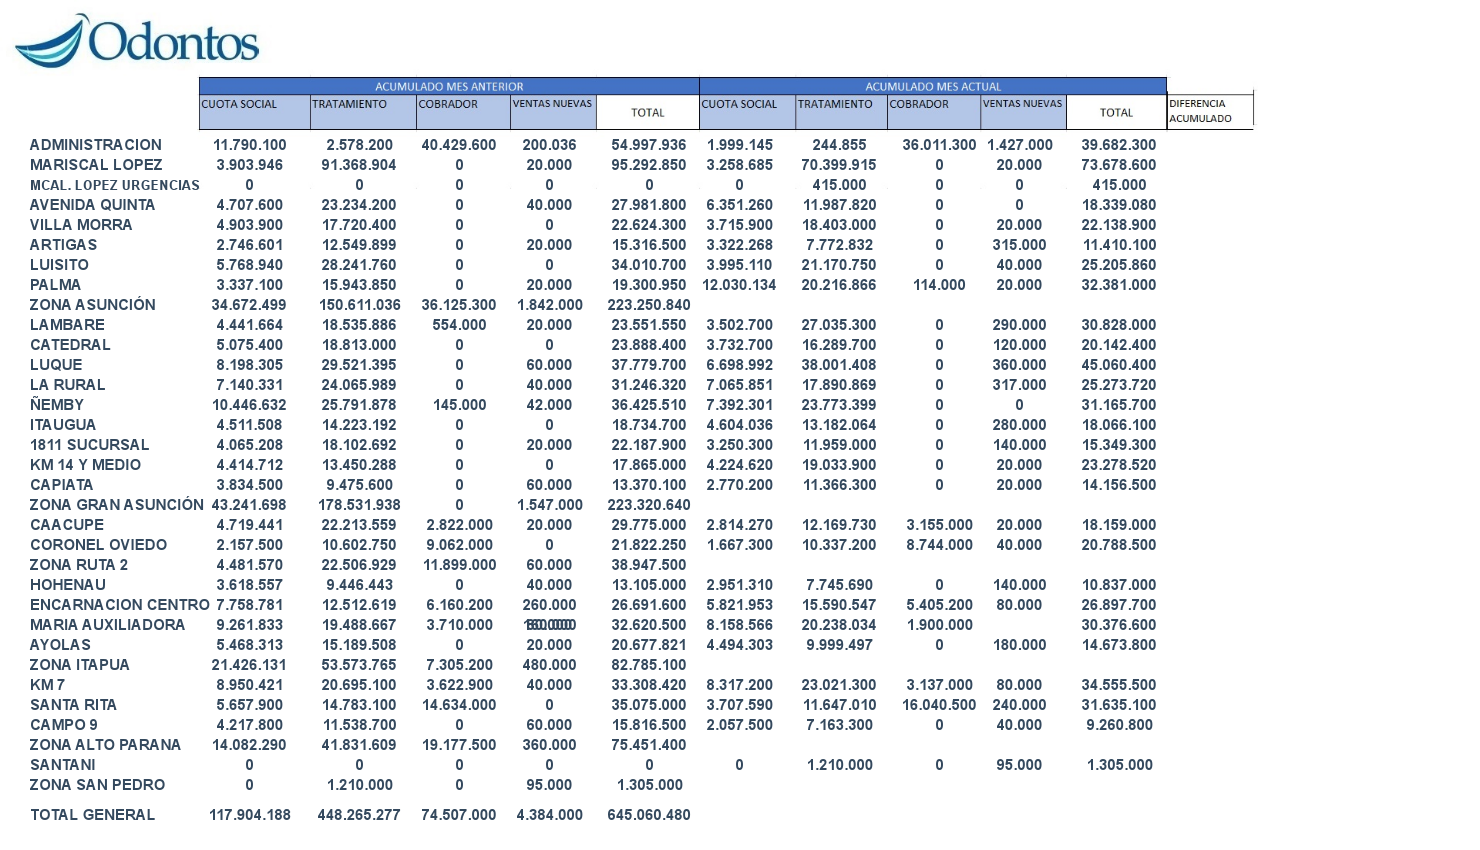
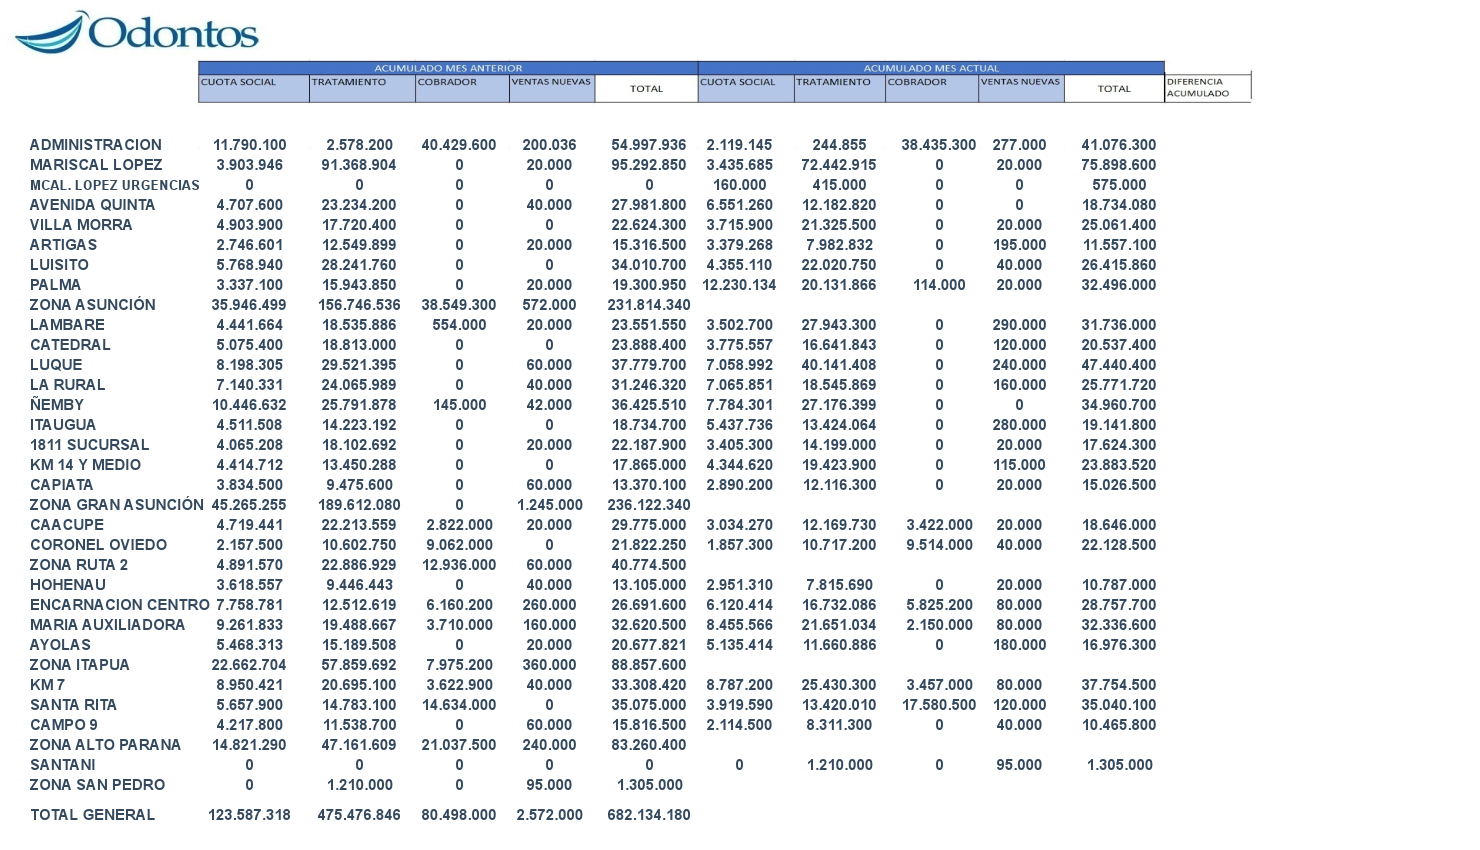
add fecha ant y fecha act al header

diff --git a/src/routes/reporte_acumulado.js b/src/routes/reporte_acumulado.js
@@ -66,6 +66,8 @@ let todasSucursalesActivas = [];
 let todosTiposPagos = ["PAGOS ELECTRONICOS", "ASO. DEB.", "LICITACIONES", "TRANSF. GIROS PALMA"];
 
 let fechaConsulta = "";
+let fechaConsultaMesAct = "09-08-2023";
+let fechaConsultaMesAnt = "09-07-2023";
 
 module.exports = (app) => {
   const Acumulado_mesact = app.db.models.Acumulado_mesact;
@@ -111,18 +113,13 @@ module.exports = (app) => {
   });
 
   function iniciarConsultas() {
-    // const fechaHoy = new Date();
-    // let year = fechaHoy.getFullYear();
-    // let month = fechaHoy.getMonth() + 1;
-    // let day = fechaHoy.getDate();
-
-    // La fecha con que se registran los datos
-    //let fechaHoyFormateado = year + "-" + month + "-" + day;
-    //fechaConsulta = year + "-" + month + "-" + day;
-
     // Obtiene la fecha y hora actual
     const fechaActual = moment();
+    const fechaMesAnterior = moment(fechaActual).subtract(1, 'months');
+
     fechaConsulta = fechaActual.format("YYYY-MM-DD");
+    fechaConsultaMesAct = fechaActual.format("DD-MM-YYYY");
+    fechaConsultaMesAnt = fechaMesAnterior.format("DD-MM-YYYY")
 
     return new Promise((resolve, reject) => {
       console.log("Inicia las consultas!", fechaConsulta);
@@ -529,9 +526,13 @@ module.exports = (app) => {
             db.detach();
             console.log("ejecutado getIngresoMesAnt");
             resolve();
-            // console.log(
-            //   "Llama a la funcion iniciar envio que se retrasa 1 min en ejecutarse Tickets"
-            // );
+            console.log(
+              "Llama a la funcion iniciar envio que se retrasa 1 min en ejecutarse Tickets"
+            );
+
+            setTimeout(() => {
+              iniciarEnvio();
+            }, 1000 * 60);
           }
         );
       });
@@ -575,7 +576,7 @@ module.exports = (app) => {
   let losIngresosMesAnt = [];
 
   // Sub Totales Zona Asuncion
-  let sumTotalesAsuncionCS = 0; 
+  let sumTotalesAsuncionCS = 0;
   let sumTotalesAsuncionTT = 0;
   let sumTotalesAsuncionCO = 0;
   let sumTotalesAsuncionVN = 0;
@@ -583,8 +584,8 @@ module.exports = (app) => {
   let sumTotalesAsuncionAG = 0;
   let sumTotalesAsuncionAS = 0;
   let sumTotalesAsuncionPR = 0;
-  
-  let sumTotalesAsuncionCS_ = 0; 
+
+  let sumTotalesAsuncionCS_ = 0;
   let sumTotalesAsuncionTT_ = 0;
   let sumTotalesAsuncionCO_ = 0;
   let sumTotalesAsuncionVN_ = 0;
@@ -1226,6 +1227,12 @@ module.exports = (app) => {
       .then((image) => {
         // Dibuja la imagen de fondo
         context.drawImage(image, 0, 0, width, height);
+
+        // Eje X e Y de las fechas
+        let ejeXFechaAct = 1010;
+        let ejeXFechaAnt = 550;
+        let ejeYFechaAct = 75;
+        let ejeYFechaAnt = 75;
 
         // Eje X de cada celda - Cierres
         //let ejeXfecha = 125;
@@ -2960,7 +2967,6 @@ module.exports = (app) => {
             // }
 
             // Se dibuja los datos del acumulado mes actual
-            
 
             context.font = "bold 15px Arial";
             context.fillStyle = "#34495E";
@@ -3013,7 +3019,6 @@ module.exports = (app) => {
             // }
 
             // Se dibuja los datos del acumulado mes actual
-           
 
             context.font = "bold 15px Arial";
             context.fillStyle = "#34495E";
@@ -3066,7 +3071,6 @@ module.exports = (app) => {
             // }
 
             // Se dibuja los datos del acumulado mes actual
-            
 
             context.font = "bold 15px Arial";
             context.fillStyle = "#34495E";
@@ -3119,7 +3123,6 @@ module.exports = (app) => {
             // }
 
             // Se dibuja los datos del acumulado mes actual
-            
 
             context.font = "bold 15px Arial";
             context.fillStyle = "#34495E";
@@ -3172,7 +3175,6 @@ module.exports = (app) => {
             // }
 
             // Se dibuja los datos del acumulado mes actual
-         
 
             context.font = "bold 15px Arial";
             context.fillStyle = "#34495E";
@@ -3225,7 +3227,6 @@ module.exports = (app) => {
             // }
 
             // Se dibuja los datos del acumulado mes actual
-         
 
             context.font = "bold 15px Arial";
             context.fillStyle = "#34495E";
@@ -3279,7 +3280,6 @@ module.exports = (app) => {
             // }
 
             // Se dibuja los datos del acumulado mes actual
-        
 
             context.font = "bold 15px Arial";
             context.fillStyle = "#34495E";
@@ -4246,6 +4246,19 @@ module.exports = (app) => {
           }
         }
 
+        // Dibujar las fechas
+        // Mes Anterior
+        context.font = "bold 13px Arial";
+        context.fillStyle = "white";
+        context.textAlign = "left";
+        context.fillText(fechaConsultaMesAnt, ejeXFechaAnt, ejeYFechaAnt);
+        // Mes actual
+        context.font = "bold 13px Arial";
+        context.fillStyle = "white";
+        context.textAlign = "left";
+        context.fillText(fechaConsultaMesAct, ejeXFechaAct, ejeYFechaAct);
+
+
         // Fila totales ZONA ASUNCION
         // SUM - Monto Total ZONA ASUNCION
         context.font = "bold 15px Arial";
@@ -4977,7 +4990,7 @@ module.exports = (app) => {
 
         // Escribe la imagen a archivo
         const buffer = canvas.toBuffer("image/png");
-        fs.writeFileSync("./Reporte - Acumulado 2023-07-19.png", buffer);
+        fs.writeFileSync("./Reporte - Acumulado " + fechaConsulta + ".png", buffer);
 
         // Convierte el canvas en una imagen base64
         const base64Image = canvas.toDataURL();
